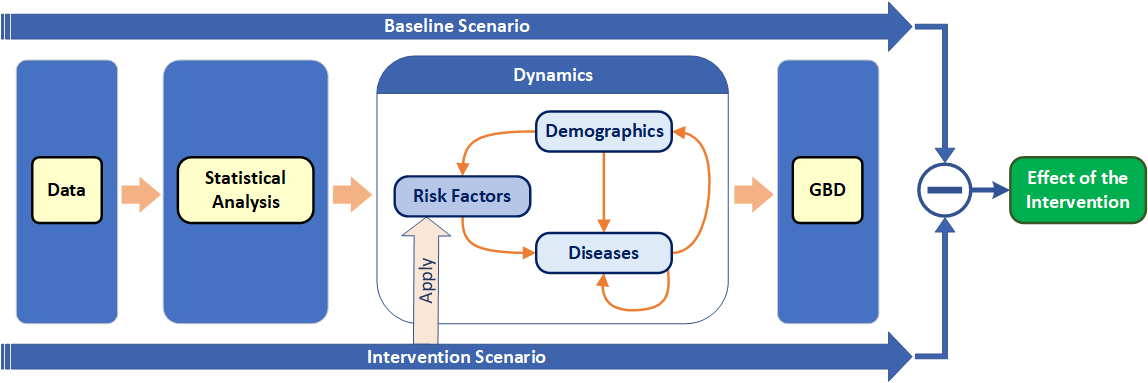
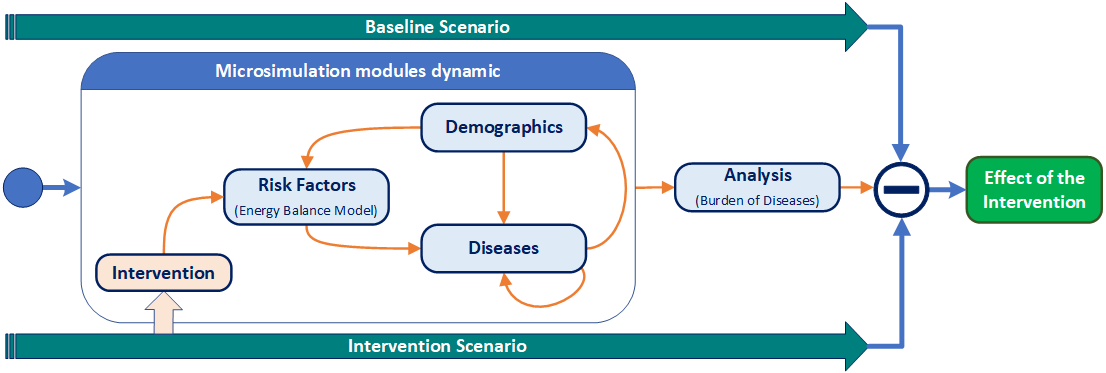
Updated configuration definition

diff --git a/userguide.md b/userguide.md
@@ -42,13 +42,14 @@ The high-level structure of the [configuration][configjson] file used to create 
         "stop_time": 2050,
         "trial_runs": 1,
         "sync_timeout_ms": 5000,
-        "diseases": [ "asthma", "diabetes", "lowbackpain", "colorectum"],
+        "diseases": ["alzheimer","asthma","colorectalcancer","diabetes","lowbackpain","osteoarthritisknee"],
         "interventions": {
             "active_type_id": "",
             "types": {}
         }
     },
     "output": {
+        "comorbidities": 4,
         "folder": "${HOME}/healthgps/results",
         "file_name": "HealthGPS_Result_{TIMESTAMP}.json"
     }
@@ -112,18 +113,16 @@ The ***modelling*** section, defines the *SES* model, and the *risk factor* mode
     ],
     "dynamic_risk_factor": "",
     "risk_factor_models": {
-        "static": "france_HLM.json",
-        "dynamic": "france_EBHLM.json"
+        "static": "France_HLM.json",
+        "dynamic": "France_EBHLM.json"
     },
     "baseline_adjustments": {
         "format": "csv",
         "delimiter": ",",
         "encoding": "UTF8",
         "file_names": {
-            "static_male":"france_initial_adjustment_male.csv",
-            "static_female":"france_initial_adjustment_female.csv",
-            "dynamic_male":"france_update_adjustment_male.csv",
-            "dynamic_female":"france_update_adjustment_female.csv"
+            "factors_mean_male":"France.FactorsMean.Male.csv",
+            "factors_mean_female":"France.FactorsMean.Female.csv"
         }
     }
 }
@@ -143,7 +142,7 @@ The ***experiment*** section defines simulation *runtime* period, *start/stop ti
     "stop_time": 2050,
     "trial_runs": 1,
     "sync_timeout_ms": 5000,
-    "diseases": [ "asthma", "diabetes", "lowbackpain", "colorectum"],
+    "diseases": ["alzheimer", "asthma", "colorectalcancer", "diabetes", "lowbackpain", "osteoarthritisknee"],
     "interventions": {
         "active_type_id": "marketing",
         "types": {
@@ -178,16 +177,18 @@ Unlike the diseases *data driven* definition, *interventions* can have specific 
 
 ## 1.4 Output
 
-Finally, ***output*** section repeated below, defines the results output *folder and file name*. The configuration parser can handle *folder* name with *environment variables* such as `HOME` on Linux shown above, however care must be taken when running the model cross-platform with same configuration file. Likewise, *file name* can have a `TIMESTAMP` *token*, to enable multiple experiments to write results to the same folder on disk without file name crashing.
+Finally, ***output*** section repeated below, defines  the maximum number of *comorbidities* to include in the results, and the output *folder and file name*. The configuration parser can handle *folder* name with *environment variables* such as `HOME` on Linux shown below, however care must be taken when running the model cross-platform with same configuration file. Likewise, *file name* can have a `TIMESTAMP` *token*, to enable multiple experiments to write results to the same folder on disk without file name crashing.
 
 ```json
 ...
 "output": {
+    "comorbidities": 4,
     "folder": "${HOME}/healthgps/results",
     "file_name": "HealthGPS_Result_{TIMESTAMP}.json"
 }
 ...
 ```
+The file name can have a *job_id*, passed as a CLI parameter, added to the end when running the simulation in batch mode, e.g., HPC cluster array. This feature enables the batch output files to be collated together to produce the complete results dataset for analysis.
 
 ## 1.5 Risk Factor Models
 
@@ -512,7 +513,8 @@ Defines the file storage for disease cost analysis for country specific data con
     "path": "analysis",
     "age_limits": [1, 100],
     "time_year": 2019,
-    "file_name": "disability_weights.csv",
+    "disability_file_name": "disability_weights.csv",
+    "lms_file_name":"lms_parameters.csv",
     "cost_of_disease": {
         "path":"cost",
         "file_name": "BoD{COUNTRY_CODE}.csv"
@@ -559,10 +561,13 @@ The model results file structure is composed of two parts: *experiment metadata*
 ```json
 {
     "experiment": {
-        "model": "Health GPS",
-        "version": "1.0.0.0",
+        "model": "HealthGPS",
+        "version": "1.1.3.0",
         "intervention": "marketing",
-        "time_of_day": "2022-02-01 11:51:43.129 GMT Standard Time"
+        "job_id": 0,
+        "custom_seed": 123456789,
+        "time_of_day": "2022-07-04 17:50:37.5678259 GMT Summer Time",
+        "output_filename": "HealthGPS_Result_{TIME_STAMP}.csv"
     },
     "result": [
         {

diff --git a/development.md b/development.md
@@ -100,8 +100,12 @@ auto model_input = create_model_input(...);
 auto event_bus = DefaultEventBus();
 auto json_file_logger = ResultFileWriter{
     create_output_file_name(config.output),
-    ExperimentInfo{.model = "Health GPS", .version = "1.0.0.0",
-        .intervention = config.intervention.identifier}
+    ExperimentInfo{
+        .model = config.app_name, 
+        .version = config.app_version, 
+        .intervention = config.intervention.identifier, 
+        .job_id = config.job_id, 
+        .seed = model_input.seed().value_or(0u)}
 };
 auto event_monitor = EventMonitor{ event_bus, json_file_logger };
 
@@ -120,8 +124,8 @@ try {
     // Create simulation engine for baseline scenario
     auto baseline_rnd = std::make_unique<hgps::MTRandom32>();
     auto baseline = HealthGPS{
-        SimulationDefinition{
-            model_input, std::move(baseline_scenario),
+        SimulationDefinition{ model_input,
+            std::move(baseline_scenario), 
             std::move(baseline_rnd)},
         factory, event_bus };
 
@@ -134,8 +138,8 @@ try {
         // Create simulation engine for intervention scenario
         auto policy_rnd = std::make_unique<hgps::MTRandom32>();
         auto intervention = HealthGPS{
-            SimulationDefinition{
-                model_input, std::move(policy_scenario),
+            SimulationDefinition{ model_input,
+                std::move(policy_scenario),
                 std::move(policy_rnd)},
             factory, event_bus };
 
@@ -185,8 +189,9 @@ The simulation executive can run experiments for baseline scenario only, or base
 | Average Age  | -       | ✓     | ✓      | Average age of the population alive |
 | Prevalence   | -       | ✓     | ✓      | Prevalence for each disease in the population |
 | Risk factors | -       | ✓     | ✓      | Average risk factor values in the population |
-| Indicators (DALYs) | ✓ | - | - | YLL, YLD and DALY values per 10000 people |
+| Indicators (DALYs) | ✓ | - | - | YLL, YLD and DALY values per 100'000 people |
 | Population Counts | ✓ | - | - |  Total size, number alive, dead and emigrants |
+|Comorbidities | -       | ✓     | ✓      | Percentage of people with 0 to N+ diseases |
 | Metrics | ✓ | - | - | Custom key/value metrics for algorithms |
 | Series | - | ✓ | ✓ | Detailed time series by time, age and gender |
 

diff --git a/index.md b/index.md
@@ -24,15 +24,15 @@ Health GPS is a flexible and modular framework, written in modern C++, designed 
 |:--:|
 |*Health GPS Concept Diagram*|
 
-### Dynamics
+### Module Dynamics
 
-The framework defines multi-dimensional interactions on demographic, risk factors and diseases as shown below. The model dynamics capture the effects of the various interacting modules overtime to stablish the population *baseline* projection and quantify the impact of *interventions* on risk factors, *the different between the two scenarios*.  
+The framework defines multi-dimensional interactions on *demographics*, *risk factors*, *diseases* and *intervention* modules as shown below. The model dynamics capture the effects of the various interacting modules overtime to stablish the population *baseline* projection and quantify the impact of *interventions* on risk factors, *the different between the two scenarios*, with the burden of diseases (BoD) *analysis module*.
 
 |![Health GPS Dynamics](/assets/image/model_dynamics_diagram.png)|
 |:--:|
 |*Health GPS Dynamics Diagram*|
 
-A brief overview of each module is provided next, the framework has been designed for composition, and allows experimenting with different module implementations at run-time.
+A brief overview of each module is provided next, the framework has been designed to allow module composition, modellers can experiment with different module implementations at run-time.
 
 ## Demographics
 
